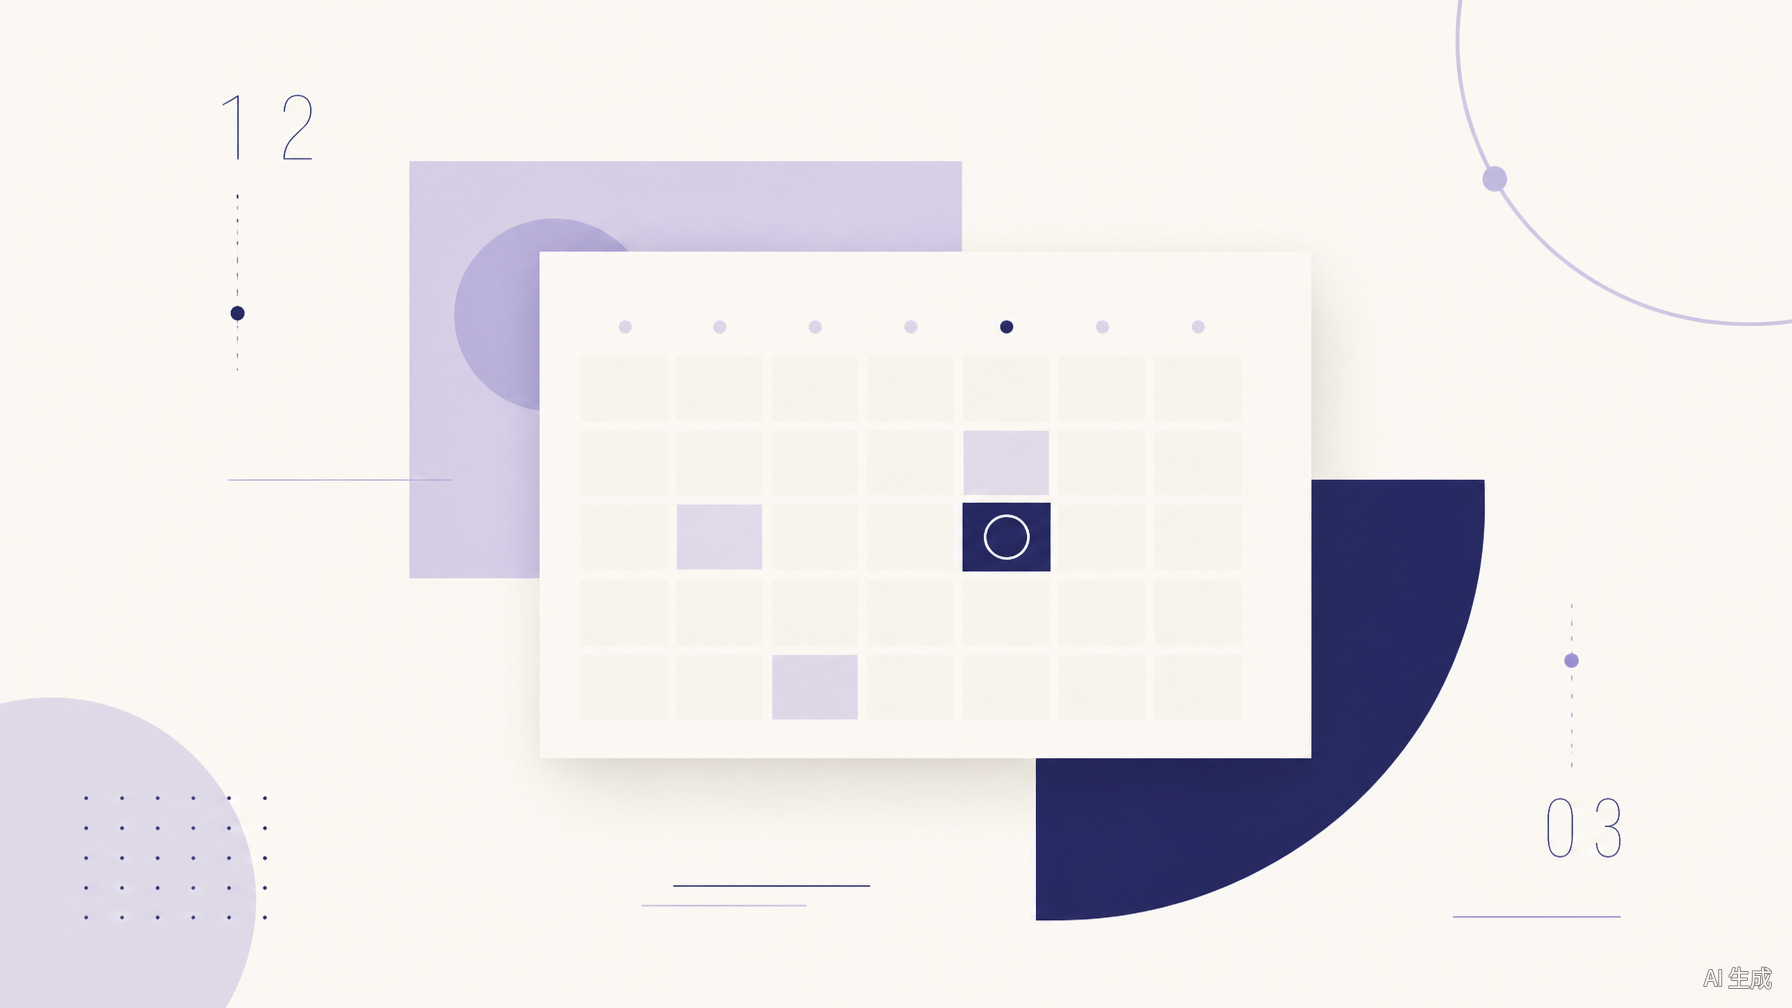
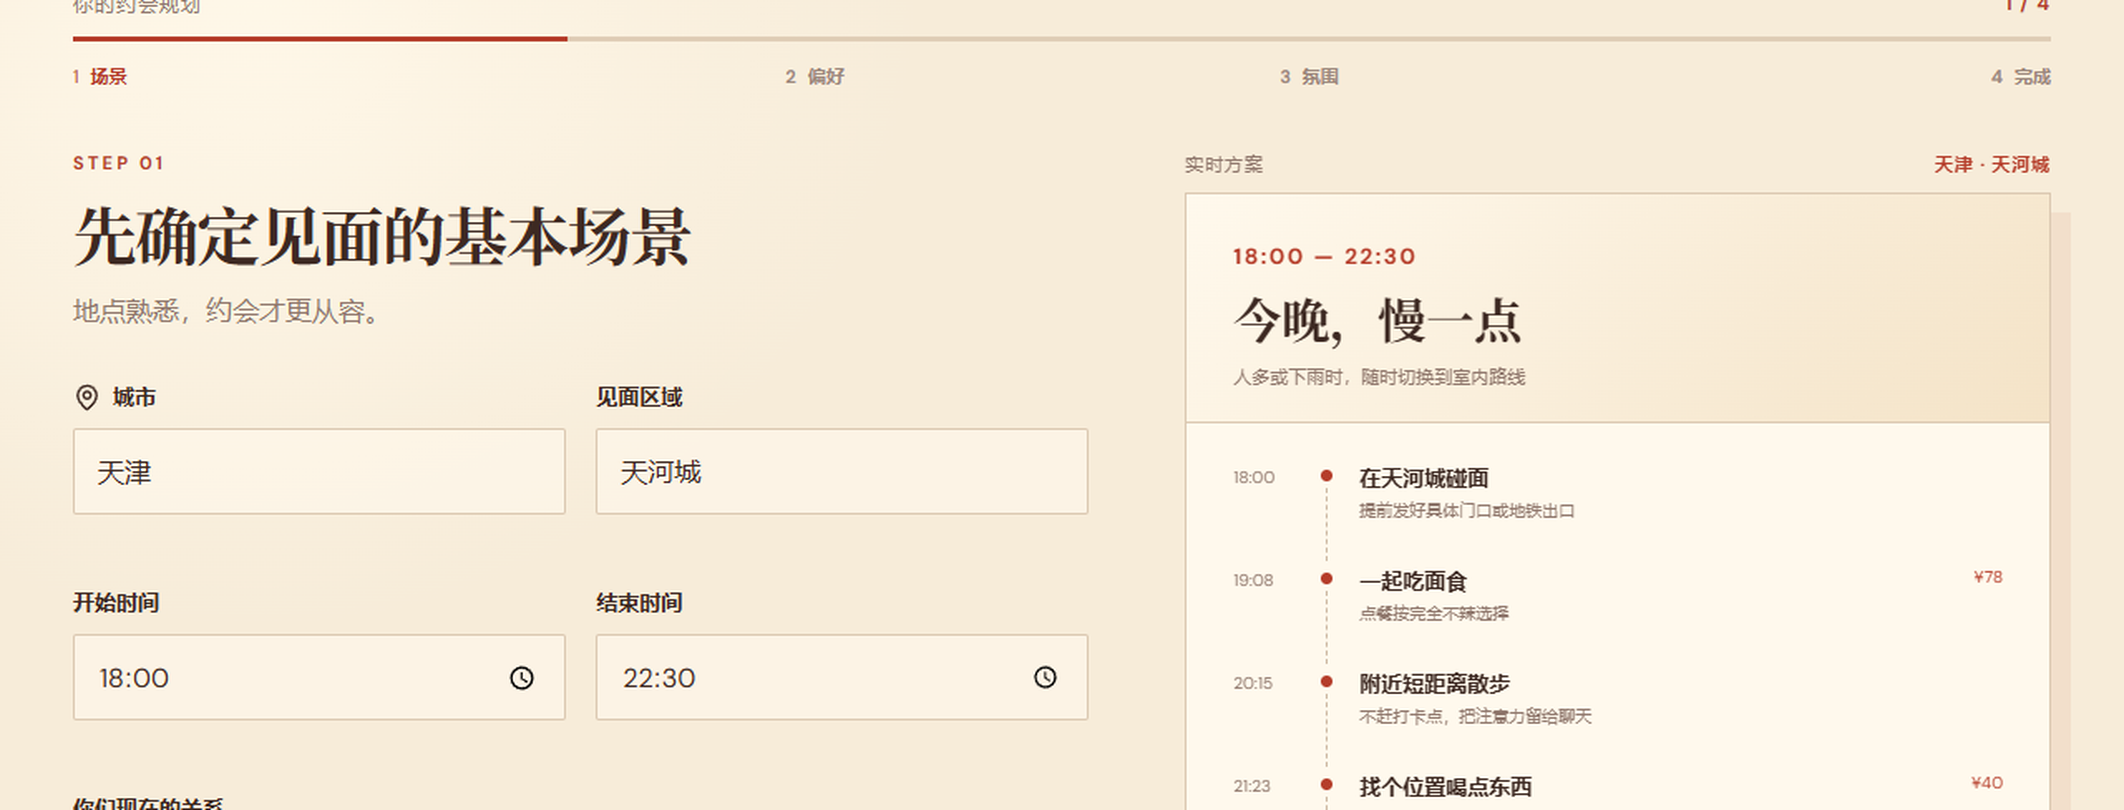
perf: 项目图改用真实截图+概念图, WebP优先+JPG保底, 3.6MB→71KB

diff --git a/index.html b/index.html
@@ -1763,7 +1763,10 @@ body.colophon-open { overflow: hidden; }
       <article class="project-card reveal project-card--full">
         <div class="project-cover">
           <span class="project-badge" data-i18n="prj.p3Badge">Web · 前端</span>
-          <img class="project-cover-image" src="assets/project-date-lightly.png" alt="Date-Lightly 项目预览：极简日期卡片概念" loading="lazy" width="1792" height="1008" />
+          <picture>
+            <source srcset="assets/project-date-lightly.webp" type="image/webp" />
+            <img class="project-cover-image" src="assets/project-date-lightly.jpg" alt="Date-Lightly 项目真实预览：多步骤约会规划应用" loading="lazy" width="2124" height="810" fetchpriority="high" />
+          </picture>
         </div>
         <div class="project-body">
           <h3 class="project-title">Date-Lightly</h3>
@@ -1781,7 +1784,10 @@ body.colophon-open { overflow: hidden; }
       <article class="project-card reveal">
         <div class="project-cover">
           <span class="project-badge" data-i18n="prj.p1Badge">Web3 · 众筹</span>
-          <img class="project-cover-image" src="assets/project-chainfund.png" alt="ChainFund 项目预览：去中心化众筹概念" loading="lazy" width="1792" height="1008" />
+          <picture>
+            <source srcset="assets/project-chainfund.webp" type="image/webp" />
+            <img class="project-cover-image" src="assets/project-chainfund.jpg" alt="ChainFund 项目预览：去中心化众筹里程碑资金释放" loading="lazy" width="992" height="558" />
+          </picture>
         </div>
         <div class="project-body">
           <h3 class="project-title" data-i18n="prj.p1Title">链筹 ChainFund</h3>
@@ -1798,7 +1804,10 @@ body.colophon-open { overflow: hidden; }
       <article class="project-card reveal">
         <div class="project-cover">
           <span class="project-badge" data-i18n="prj.p2Badge">Web3 · 拍卖</span>
-          <img class="project-cover-image" src="assets/project-monad-auction.png" alt="MonadAuction 项目预览：密封竞价拍卖概念" loading="lazy" width="1792" height="1008" />
+          <picture>
+            <source srcset="assets/project-monad-auction.webp" type="image/webp" />
+            <img class="project-cover-image" src="assets/project-monad-auction.jpg" alt="MonadAuction 项目预览：密封竞价 5 轮 commit-reveal" loading="lazy" width="992" height="558" />
+          </picture>
         </div>
         <div class="project-body">
           <h3 class="project-title">MonadAuction</h3>
